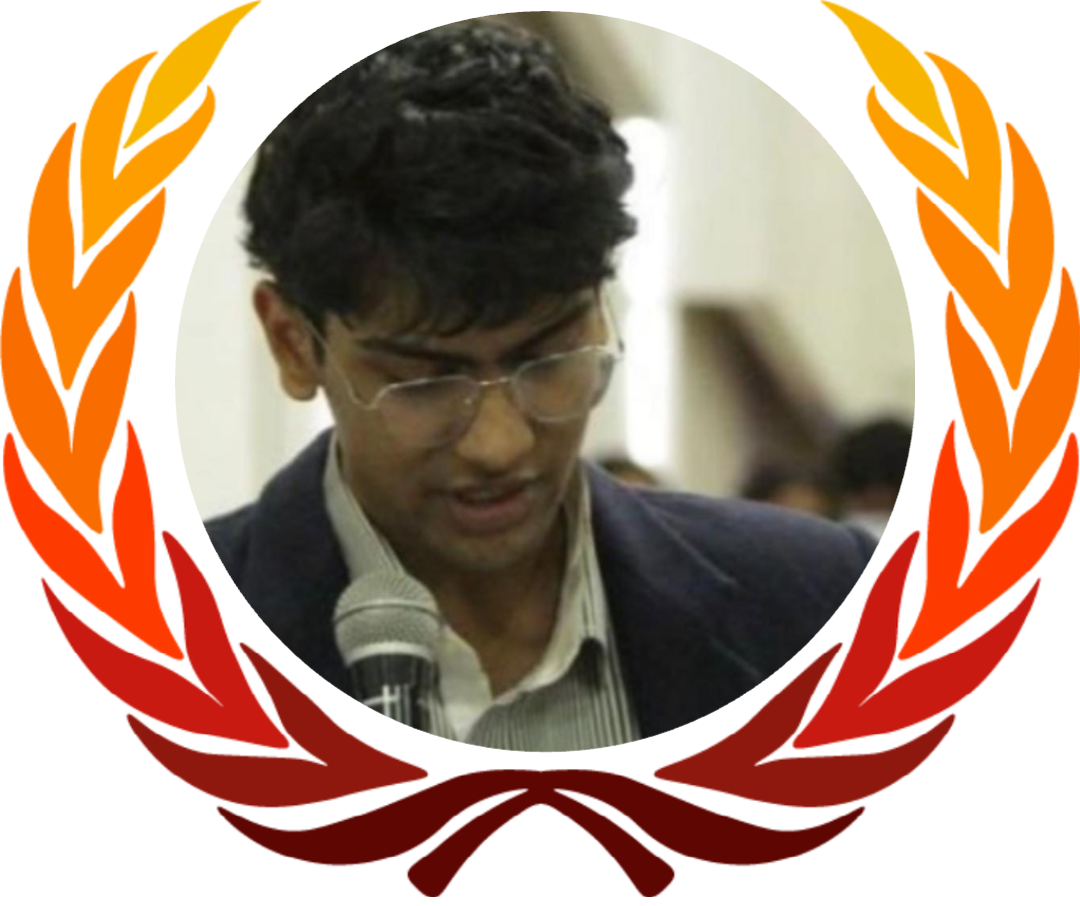
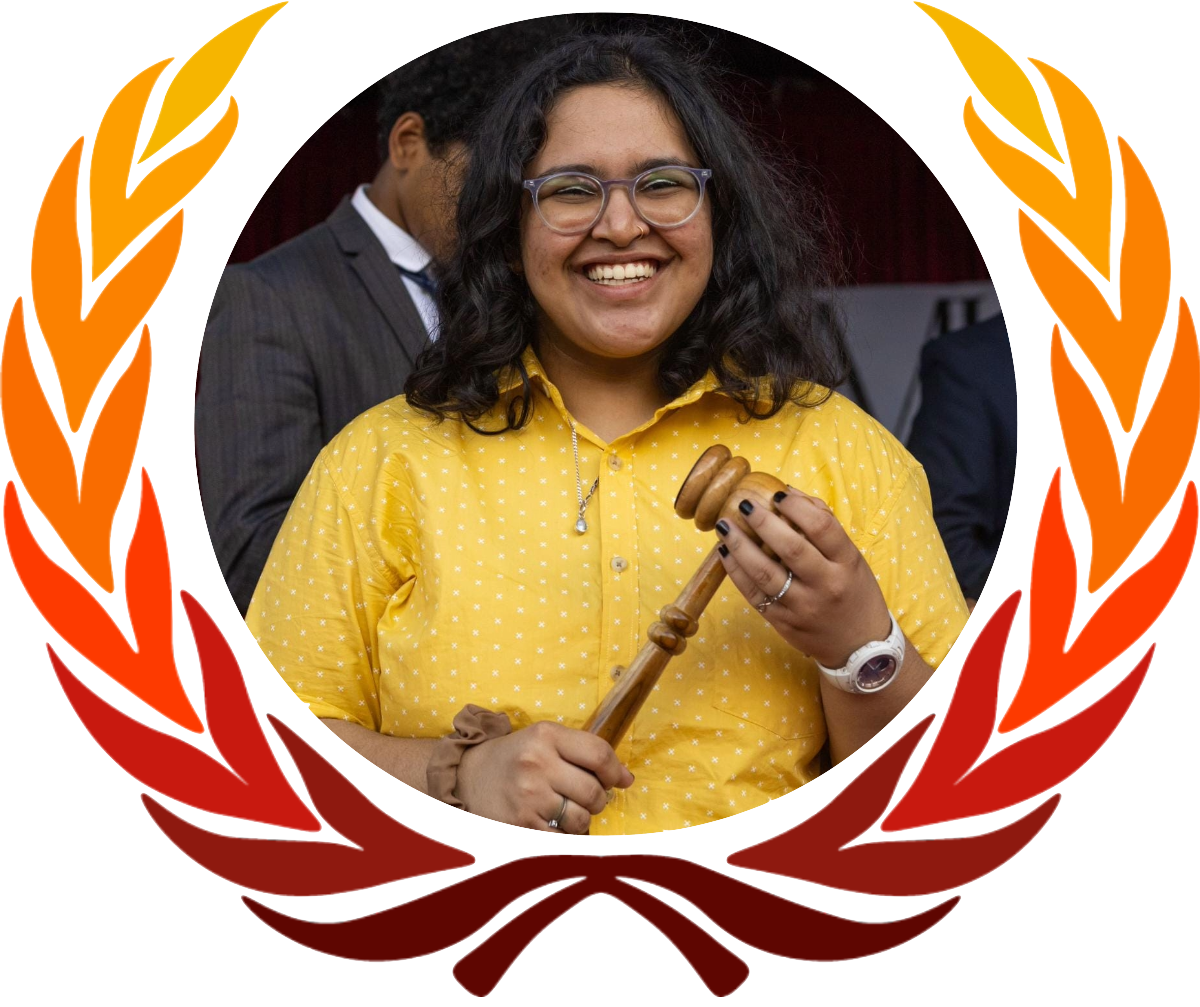
changed eb

diff --git a/lib/pages/jcc_page.dart b/lib/pages/jcc_page.dart
@@ -16,10 +16,9 @@ class _JCCState extends State<JCC> {
       agenda: "Agenda: The Russo - Japanese War 1904 \n[Freeze Date: 15th February 1904]",
       logoLink: "committee_page/JCC.png",
       bgLink: "https://drive.google.com/file/d/1_H2OxjTmeG9URdukiIosd3jGWDXKhBYH/view?usp=drive_link",
-      executiveBoard: [["Siddhant Roy","Head chair","EB/JCC1.png","Siddhant Roy, the Head Chair for JCC, is an avid debater and has been in the circuit for three years. A passionate reader of philosophy and current affairs, he believes in scintillating conversations with substance and logic. He hopes this MUN reaches a successful and meaningful solution to the deep problems posed by the committees. "],
+      executiveBoard: [["Ananya Khare","Head chair","EB/JCC1.png","\“Because freedom, I am told, is nothing but the distance between the hunter and its prey.\” Ocean Vuong\n\nAnanya Khare is a hurricane disguised as the loudest laugh in the room. Having placed in all but one of the MUNs she's participated in, Ananya specialises in crisis and semi-crisis committees. Being a free verse poet, Ananya dismantles arguments with stupefying ease and makes sure you open a dictionary while she does it. A death stare coupled with a  \"delegate, are you insinuating\" is merely the calm before the storm she's bound to brew up in her committee. An avid reader of war poetry, backroom diplomacy is her biggest forte. A heartfelt indie music connoisseur, Ananya is easily the best researched person in most rooms. When not with a German thesaurus, you can find her playing the flute or watching breadtube for hours on end with the biggest mug of hot dark chocolate. \nPresenting to you the Chairperson of the much awaited Continuous Crisis Committee, Ananya Khare."],
       ["Rishikesh Madhuvairy","Crisis Director","EB/JCC2.png","Rishikesh Madhuvairy, the Crisis Director, is a zealous orator, and a firm, driven proponent of substantive research and diplomacy. He has shaped his formative months in the Bangalore circuit with a glisten, having started MUNs during the pandemic, he developed an unwavering diligence for delegating and versatility in any MUN setting. Best Delegate awards at KMUN, NPSHMUN, TISBMUN, and Outstanding Delegate at Harvard MUN India 2022 are only a few of his many achievements thus far. He has established a rooted interest in crisis direction and continuous crisis committees, knowledgeable in captivating focuses ranging from the Vietnam War to the Anschluss, and everything in between. Delegates will naturally enjoy any committee whose immersive dynamic, enthralling crisis arcs, and seamless flow are in the palm of his hand."],
       ["Soham Dhar","Vice chair","EB/JCC3.png","Soham Dhar, the Vice Chairperson of JCC, has a lifelong passion for international relations and foreign affairs and thrives in the challenging environment of MUN conferences. MUNs hold a special place in his heart. From passionately defending his country's stance on fossil fuels, to invoking empathy for matters of sovereignty; MUNs have offered him a great diversity of opportunities. He can effortlessly transition from accusation to negotiation, achieving mutual satisfaction and sharing laughter. He looks forward to fulfilling his duties at the conference with great enthusiasm."],
-      ["Varun Iyer","Moderator","EB/JCC5.png","Varun Iyer, the Moderator for JCC, was introduced to the circuit in 2019, and is an avid crisis enthusiast, with his ice-cold demeanor and a compulsion for realism in his directives rendering a name for himself in the circuit, with placements in notable conferences such as TISBMUN, GEARMUN, and CJCMUN. With 10+ conferences under his belt, Varun cherishes passionate debate and creative documentation, being able to give a firm stance on topics ranging from the breakup of the USSR to the operations of the Chicago Outfit. When he isn't busy meticulously planning his next human rights violation, Varun can be found mastering the art of procrastination, running a newspaper or even playing the piano."],
       ["Vipran Vasan","Moderator","EB/JCC4.png","Vipran Vasan, the Moderator for JCC,  is a passionate and accomplished Model UN delegate with a diverse range of interests, including Physics, Mathematics, Video Games, and Sports. With experience of participating in MUN conferences across Bangalore, Vipran has placed in both General Assemblies and Crisis committees. In addition to his MUN experience, Vipran has a background in debating and public speaking, which provides them with a unique perspective on global issues and international relations."]
       
       ]

diff --git a/lib/pages/unsc_page.dart b/lib/pages/unsc_page.dart
@@ -17,9 +17,10 @@ class _UNSCState extends State<UNSC> {
       logoLink: "committee_page/UNSC.png",
       bgLink: "https://drive.google.com/file/d/1EaOPtsAG5sHYle7FTCaEU3GXE6liREnt/view?usp=drive_link",
       executiveBoard: [["Rahul Prabhu","Head chair","EB/UNSC1.png","\"Memento Mori\" - Lamb of God\n\nOften being the most outspoken (and irritating) delegate in the room, Rahul loves lobbying and giving thunderous speeches, finding ways to make fun of half of the committee in the process. Frequently getting barred at a rate that rivals AIPPM delegates for making silly goofy jokes, he prefers committees like UNSC and DISEC where blackmail and ultimatums are considered acceptable forms of diplomacy. However, he never compromises on content, international law, and regulation, scoffing at delegates who are all bark no bite. He spends his time outside MUNs immersing in music and many other things (he swears he's interesting)."],
-      ["Akshara Bhat","Co-chair","EB/UNSC2.png","With a seemingly inexhaustible tolerance for fruitless debates and a passion for politics, Akshara Bhat is always ready for a challenge. Apart from arguing way too much with anyone willing to partake, she spends her time reading books, writing film reviews, and trying to explore new corners of the city. Often known for being the most diplomatic and respectful delegate in committee, her tact has led her to win accolades at prestigious MUNs across India. Collaboration to come to a common consensus to solve problems is a core tenet. Akshara is a firm believer in using MUN as a platform for change and invites the delegates for an enthralling and expeditious conference."],
       ["Eshwari Gundi","Vice chair","EB/UNSC3.png","Eshwari Gundi, the Vice Chair of UNSC, has been a passionate munner in the Bangalore circuit ever since her first MUN in the 7th grade sparked an insatiable thirst for global politics and diplomacy. You can often find her being the most dramatic in committee, although never lacking in strategy and research. Her love for negotiation and fiery debate is driven by her interest in current affairs, social justice, and literature. Crisis-driven committees like UNSC are where she feels most at home and will never decline an opportunity to prove another delegate wrong. Apart from MUN, she dabbles in photography and writing, directing most of her time to further pursue research about judicial prejudices to support her prospective career in law"],
-      ["Sunay Mittal","Moderator","EB/UNSC4.png","Sunay Mittal, the UNSC moderator is an overenthusiastic power delegate who loves to interact with people and get to know their perspectives, only to gaslight them into believing what he thinks should be done. From representing Syria in the Council of Women's Rights, China, and DPRK in the Security Council to the drug capital of Myanmar in UNODC, Sunay loves the opportunity to engage in controversy, while always keeping time to condemn Western propaganda. Recently winning his first Best Delegate at Iksha-Mun 2023, he has a near-perfect record of placing in 5 out of his 6 muns. Apart from straining his voice in committee, Sunay loves to over-dramatize any situation at hand while keeping himself busy with the sciences."]
+      ["Amisha Sharma","Vice chair","EB/UNHRC2.png","\"If we keep burying each other in the same dirt we fight over, who will be left to plant flowers?\"~Erin Van Vuren\nAmisha Sharma, the Vice Chairperson of UNSC, is a 10th-grader who discovered her love for MUNs last August. Ever since her first, overly ambitious HMUN, she was hooked. Today, she's attended over 10 MUNs as both a delegate and an EB member, and she has no plans to stop. Apart from MUNning, Amisha loves to indulge in reading, writing, and debating (arguing)."],
+      ["Varun Iyer","Moderator","EB/JCC5.png","Varun Iyer, the Moderator for JCC, was introduced to the circuit in 2019, and is an avid crisis enthusiast, with his ice-cold demeanor and a compulsion for realism in his directives rendering a name for himself in the circuit, with placements in notable conferences such as TISBMUN, GEARMUN, and CJCMUN. With 10+ conferences under his belt, Varun cherishes passionate debate and creative documentation, being able to give a firm stance on topics ranging from the breakup of the USSR to the operations of the Chicago Outfit. When he isn't busy meticulously planning his next human rights violation, Varun can be found mastering the art of procrastination, running a newspaper or even playing the piano."],
+      //["Veena","Moderator","EB/JCC5.png",""],
       ]
     );
   }

diff --git a/lib/pages/unhrc_page.dart b/lib/pages/unhrc_page.dart
@@ -17,8 +17,9 @@ class _UNHRCState extends State<UNHRC> {
       logoLink: "committee_page/UNHRC.png",
       bgLink: "https://drive.google.com/file/d/1z8ICfj8vX2BmlWsL2ieuXWYB9Ya6BHzm/view?usp=drive_link",
       executiveBoard: [["Jasmeeth Singh","Head chair","EB/UNHRC1.png","As Robert Kiyosaki famously said, \"Often in the real world, it's not the smart who get ahead, but the bold.\" \nJasmeeth Singh, the Head Chair of UNHRC, has soared to new heights since his MUN journey began in the 8th grade. Having represented our organization at over 20 conferences, Jasmeet has an impressive 100% placement rate. His commitment to excellence and passion for international affairs has earned him numerous accolades at prestigious MUNs, including SJBHSMUN, ROTAMUN, CHSMUN, and CLMUN, just to name a few along with co-founding the prestigious private delegation Old Munks who are no strangers to the Bangalore circuit. Jasmeeth has truly become a delegate to watch on the renowned Bangalore Circuit. In addition to his MUN achievements, Jasmeeth served as the Head Delegate for St. Joseph Pre University College, where he exemplified strong leadership and now is pursuing his degree in business studies from Christ University, Bangalore. However, Jasmeeth's boldness extends beyond the realm of MUN. His unique \"Brick & Mortar\" contrarian philosophy has set him apart as a visionary entrepreneur."],
-      ["Amisha Sharma","Vice chair","EB/UNHRC2.png","\"If we keep burying each other in the same dirt we fight over, who will be left to plant flowers?\"~Erin Van Vuren\nAmisha Sharma, the Vice Chairperson of UNHRC, is a 10th-grader who discovered her love for MUNs last August. Ever since her first, overly ambitious HMUN, she was hooked. Today, she's attended over 10 MUNs as both a delegate and an EB member, and she has no plans to stop. Apart from MUNning, Amisha loves to indulge in reading, writing, and debating (arguing)."],
-      ["Dhriti Rao","Moderator","EB/UNHRC3.png","\“When you work with tigers, once in a while they\’re gonna take a swipe at you.\” -Jessica Pearson\nDhriti Rao, the Moderator of the UNHRC, is a 12th Grader from Greenwood High. She has been in the MUN circuit since she was 13 and has attended 8 conferences where she’s placed 5 times. Her interests lie in research, writing, debate and deeply understanding the monetary dependence of the modern world. She intends to major in Economics in college."]
+      ["Ashvik Mishra","Vice chair","EB/DISEC3.png","Ashvik Mishra, the Moderator for DISEC, is back in action, fueled by his desire for debate and chaos. Since 2018, he started by having fun with socialist countries and loving the press sessions as an excuse to put his country ahead. You can count on him to give the committee a laugh but also prepare to face his unforgiving press sessions. As a delegate, he floats like a Cadillac and stings like a Beemer, where either you stand with him or get steamrolled in committee. As the moderator for DISEC, he will strive to push delegates to their limits and ensure they take away something valuable from the committee. He loves whacky quotes and prefers committees to be as competitive as possible; here is one he lives by- \"Life is a game. Play to win\" ~ Harvey Spectre"],
+      ["Dhriti Rao","Moderator","EB/UNHRC3.png","\“When you work with tigers, once in a while they\’re gonna take a swipe at you.\” -Jessica Pearson\nDhriti Rao, the Moderator of the UNHRC, is a 12th Grader from Greenwood High. She has been in the MUN circuit since she was 13 and has attended 8 conferences where she’s placed 5 times. Her interests lie in research, writing, debate and deeply understanding the monetary dependence of the modern world. She intends to major in Economics in college."],
+      ["Viswanath Missula","Moderator","EB/nopicgiven.png","Viswanath Missula, the moderator of WHO, often struggles to stop speaking. Whether it's spontaneously fabricating elaborate facts and statistics that just seem like they might be true or stirring up intense fights with someone completely unexpected just to revel in the chaos, he's always trying to keep people guessing. He might not always be the loudest voice in committee but when he gets focused, he can be ruthless and cold. Harbouring a profound passion for history, philosophy and religion, Viswanath likes to masquerade as the most knowledgeable person in the room and is just as good at noticing mistruth as he is at making them."]
       ]
     );
   }

diff --git a/lib/pages/who_page.dart b/lib/pages/who_page.dart
@@ -16,7 +16,10 @@ class _WHOState extends State<WHO> {
       agenda: "Agenda: Discussing the Rising Concerns of Cross-Border Disease Transmissions",
       logoLink: "committee_page/WHO.png",
       bgLink: "https://drive.google.com/file/d/1rAG-_B5cuoMffLFMhqWOV3nn8lqIBMBr/view?usp=drive_link",
-      executiveBoard: []
+      executiveBoard: [["Krish Mehta","Head chair","EB/WHO1.png","Krish Mehta, the Head Chair for WHO, has a versatile personality that stands out, having won an award in every type of committee. \"MAN what the hell I quit!\" - Said one of Krish's fellow delegates in TISBMUN last year who stormed off after Krish shook the very structure of traditional Mun'ning. Whether it is launching haphazard nukes, crafting devious communique, or his usual masterplan to attain world domination, Krish's abilities to transform a seemingly monotonous GA committee into a paradise of chaos all but hint at the pandemonium he will inflict in a WHO committee. His ever-accentuating arsenal of accolades justifies his presence, having won laurels at almost every committee he has participated in; winning Best Delegate at TISBMUN, NPSMUN, OMUN, MADRAS MUN and placing in top-tier law schools such as PESMUN and ElpisMUN to name a few."],
+      ["Harihar Prasad","Vice Chair","EB/WHO2.png","\“Everything can be taken from a man but one thing: the last of the human freedoms—to choose one\’s attitude in any given set of circumstances, to choose one\’s own way.\” \n― Viktor E. Frankl\n\nBold, loudspoken, and always glad to propagate chaos in committee, Harihar Prasad, the Vice Chair of WHO has a perfect placement record, with placements in CCC, EU, DISEC, UNSC and AIPPM. Experienced with a vast array of committees, but with a soft spot for crises, this delegate is sure to make any committee interesting. Starting off with a purely aggressive style that slowly evolved to one with exuberant speeches and carefully quoted articles from international law, he takes something from every single conference, learning at a frightening pace."],
+      ["Sunay Mittal","Moderator","EB/WHO3.png","Sunay Mittal, the WHO moderator is an overenthusiastic power delegate who loves to interact with people and get to know their perspectives, only to gaslight them into believing what he thinks should be done. From representing Syria in the Council of Women's Rights, China, and DPRK in the Security Council to the drug capital of Myanmar in UNODC, Sunay loves the opportunity to engage in controversy, while always keeping time to condemn Western propaganda. Recently winning his first Best Delegate at Iksha-Mun 2023, he has a near-perfect record of placing in 5 out of his 6 muns. Apart from straining his voice in committee, Sunay loves to over-dramatize any situation at hand while keeping himself busy with the sciences."]
+      ]
     );
   }
 }

diff --git a/lib/pages/disec_page.dart b/lib/pages/disec_page.dart
@@ -17,8 +17,8 @@ class _DISECState extends State<DISEC> {
       logoLink: "committee_page/DISEC.png",
       bgLink: "https://drive.google.com/file/d/1a4XctcnHQX7dbPcJNFI1cN51csLhDzq9/view?usp=drive_link",
       executiveBoard: [["Alfred Thomas","Head chair","EB/DISEC1.png","\"Diplomacy is like jazz; it's about the notes you don't play.\""],
-      ["Krish Mehta","Vice chair","EB/DISEC2.png","Krish Mehta, the Vice Chair for DISEC, has a versatile personality that stands out, having won an award in every type of committee. \"MAN what the hell I quit!\" - Said one of Krish's fellow delegates in TISBMUN last year who stormed off after Krish shook the very structure of traditional Mun'ning. Whether it is launching haphazard nukes, crafting devious communique, or his usual masterplan to attain world domination, Krish's abilities to transform a seemingly monotonous GA committee into a paradise of chaos all but hint at the pandemonium he will inflict in a DISEC committee. His ever-accentuating arsenal of accolades justifies his presence, having won laurels at almost every committee he has participated in; winning Best Delegate at TISBMUN, NPSMUN, OMUN, MADRAS MUN and placing in top-tier law schools such as PESMUN and ElpisMUN to name a few."],
-      ["Ashvik Mishra","Moderator","EB/DISEC3.png","Ashvik Mishra, the Moderator for DISEC, is back in action, fueled by his desire for debate and chaos. Since 2018, he started by having fun with socialist countries and loving the press sessions as an excuse to put his country ahead. You can count on him to give the committee a laugh but also prepare to face his unforgiving press sessions. As a delegate, he floats like a Cadillac and stings like a Beemer, where either you stand with him or get steamrolled in committee. As the moderator for DISEC, he will strive to push delegates to their limits and ensure they take away something valuable from the committee. He loves whacky quotes and prefers committees to be as competitive as possible; here is one he lives by- \"Life is a game. Play to win\" ~ Harvey Spectre"]
+      //["Samhita ","Vice Chair","EB/nopicgiven.png",""],
+      ["Vishruth Jasti","Moderator","EB/nopicgiven.png","Vishruth Jasti is engrossed in world matters, often finding himself deep in emotionally intense debates on humanitarian matters, ones in which he puts in his utmost effort to defend what is morally right. He recently placed in HMUN among a committee of close to 200 people and doesn\’t plan on stopping his deep dive into the MUN world. He tends to spend his free time either lazing on his bed playing overwatch, or taking part in heated debates (with himself) over issues that are of major concern."]
       ]
     );
   }

diff --git a/lib/pages/unodc_page.dart b/lib/pages/unodc_page.dart
@@ -18,7 +18,7 @@ class _UNODCState extends State<UNODC> {
       bgLink: "https://drive.google.com/file/d/1Ksr02yR77PPMiLgs9yN5ckUijN1rUIJl/view?usp=drive_link",
       executiveBoard: [["Ishaan Ghosh","Head chair","EB/UNODC1.png","\"A sincere diplomat is like dry water or wooden iron\" - Joseph Stalin\n\nIshaan's exceptional crisis delegate skills are attributed to his quick thinking, sharp wit, and attention to detail. He has a knack for generating chaos in his committees, whether it be as a delegate or an Executive Board member, by donning a pair of sunglasses and employing a dramatic flair. Despite his occasionally serious demeanor during committee sessions, he maintains an amiable personality and shows off his impressive dance moves outside of committee. Ishaan's humble personality allows him to create an environment for delegates to develop their skills and bring new ideas to the table. He has received numerous accolades from reputable Model UN conferences across the country, demonstrating his expertise in Model UN conferences as well as speed skating and long-distance cycling. He is known to make an attempt at being humorous, although he may not always succeed, and has openly admitted to not having a talent for making jokes."],
       ["Mukul Kumar","Vice chair","EB/UNODC2.png","Mukul Kumar, the Vice Chair of UNODC, is an 11th grader who, although started MUNning later than most in 9th grade, has still attended 10 conferences in and around Bangalore, acquiring several placements. Yet, Mukul has always been an avid debater in all possible forums, from politics to economics. Not wishing to be limited to a chair and table, he also spends his time playing badminton and reading outdoors."],
-      ["Harihar Prasad","Moderator","EB/UNODC3.png","\“Everything can be taken from a man but one thing: the last of the human freedoms—to choose one\’s attitude in any given set of circumstances, to choose one\’s own way.\” \n― Viktor E. Frankl\n\nBold, loudspoken, and always glad to propagate chaos in committee, Harihar Prasad, the moderator of UNODC has a perfect placement record, with placements in CCC, EU, DISEC, UNSC and AIPPM. Experienced with a vast array of committees, but with a soft spot for crises, this delegate is sure to make any committee interesting. Starting off with a purely aggressive style that slowly evolved to one with exuberant speeches and carefully quoted articles from international law, he takes something from every single conference, learning at a frightening pace."]
+      //["Anya Sapru,"Moderator","EB/UNODC3.png",""]
       ]
     );
   }

diff --git a/lib/pages/home_page.dart b/lib/pages/home_page.dart
@@ -319,7 +319,7 @@ class _HomeState extends State<Home> {
                                   ),
                                   ),
                                 Text(
-                                  "\n\n8:30-9:45 - Registrations\n9:45-10:45 - Opening Ceremony\n10:45- 11:15 - Break\n11:15- 1:30- Committee Session 1\n1:30- 2:15- Lunch Break for UNSC, SOCHUM, JCC, AIPPM and DISEC\n2:15- 3:00- Lunch Break for IPC, UNHRC, UNEP and UNDOC\n3:00- 4:30- Committee Session 2\nDispersal",
+                                  "\n\n8:00-9:45 - Registrations\n9:45-10:45 - Opening Ceremony\n10:45- 11:15 - Break\n11:15- 1:30- Committee Session 1\n1:30- 2:15- Lunch Break for UNSC, SOCHUM, JCC, AIPPM and DISEC\n2:15- 3:00- Lunch Break for IPC, UNHRC, UNEP and UNDOC\n3:00- 4:30- Committee Session 2\nDispersal",
                                   style: TextStyle(
                                     fontFamily: font,
                                     color: Colors.white,
